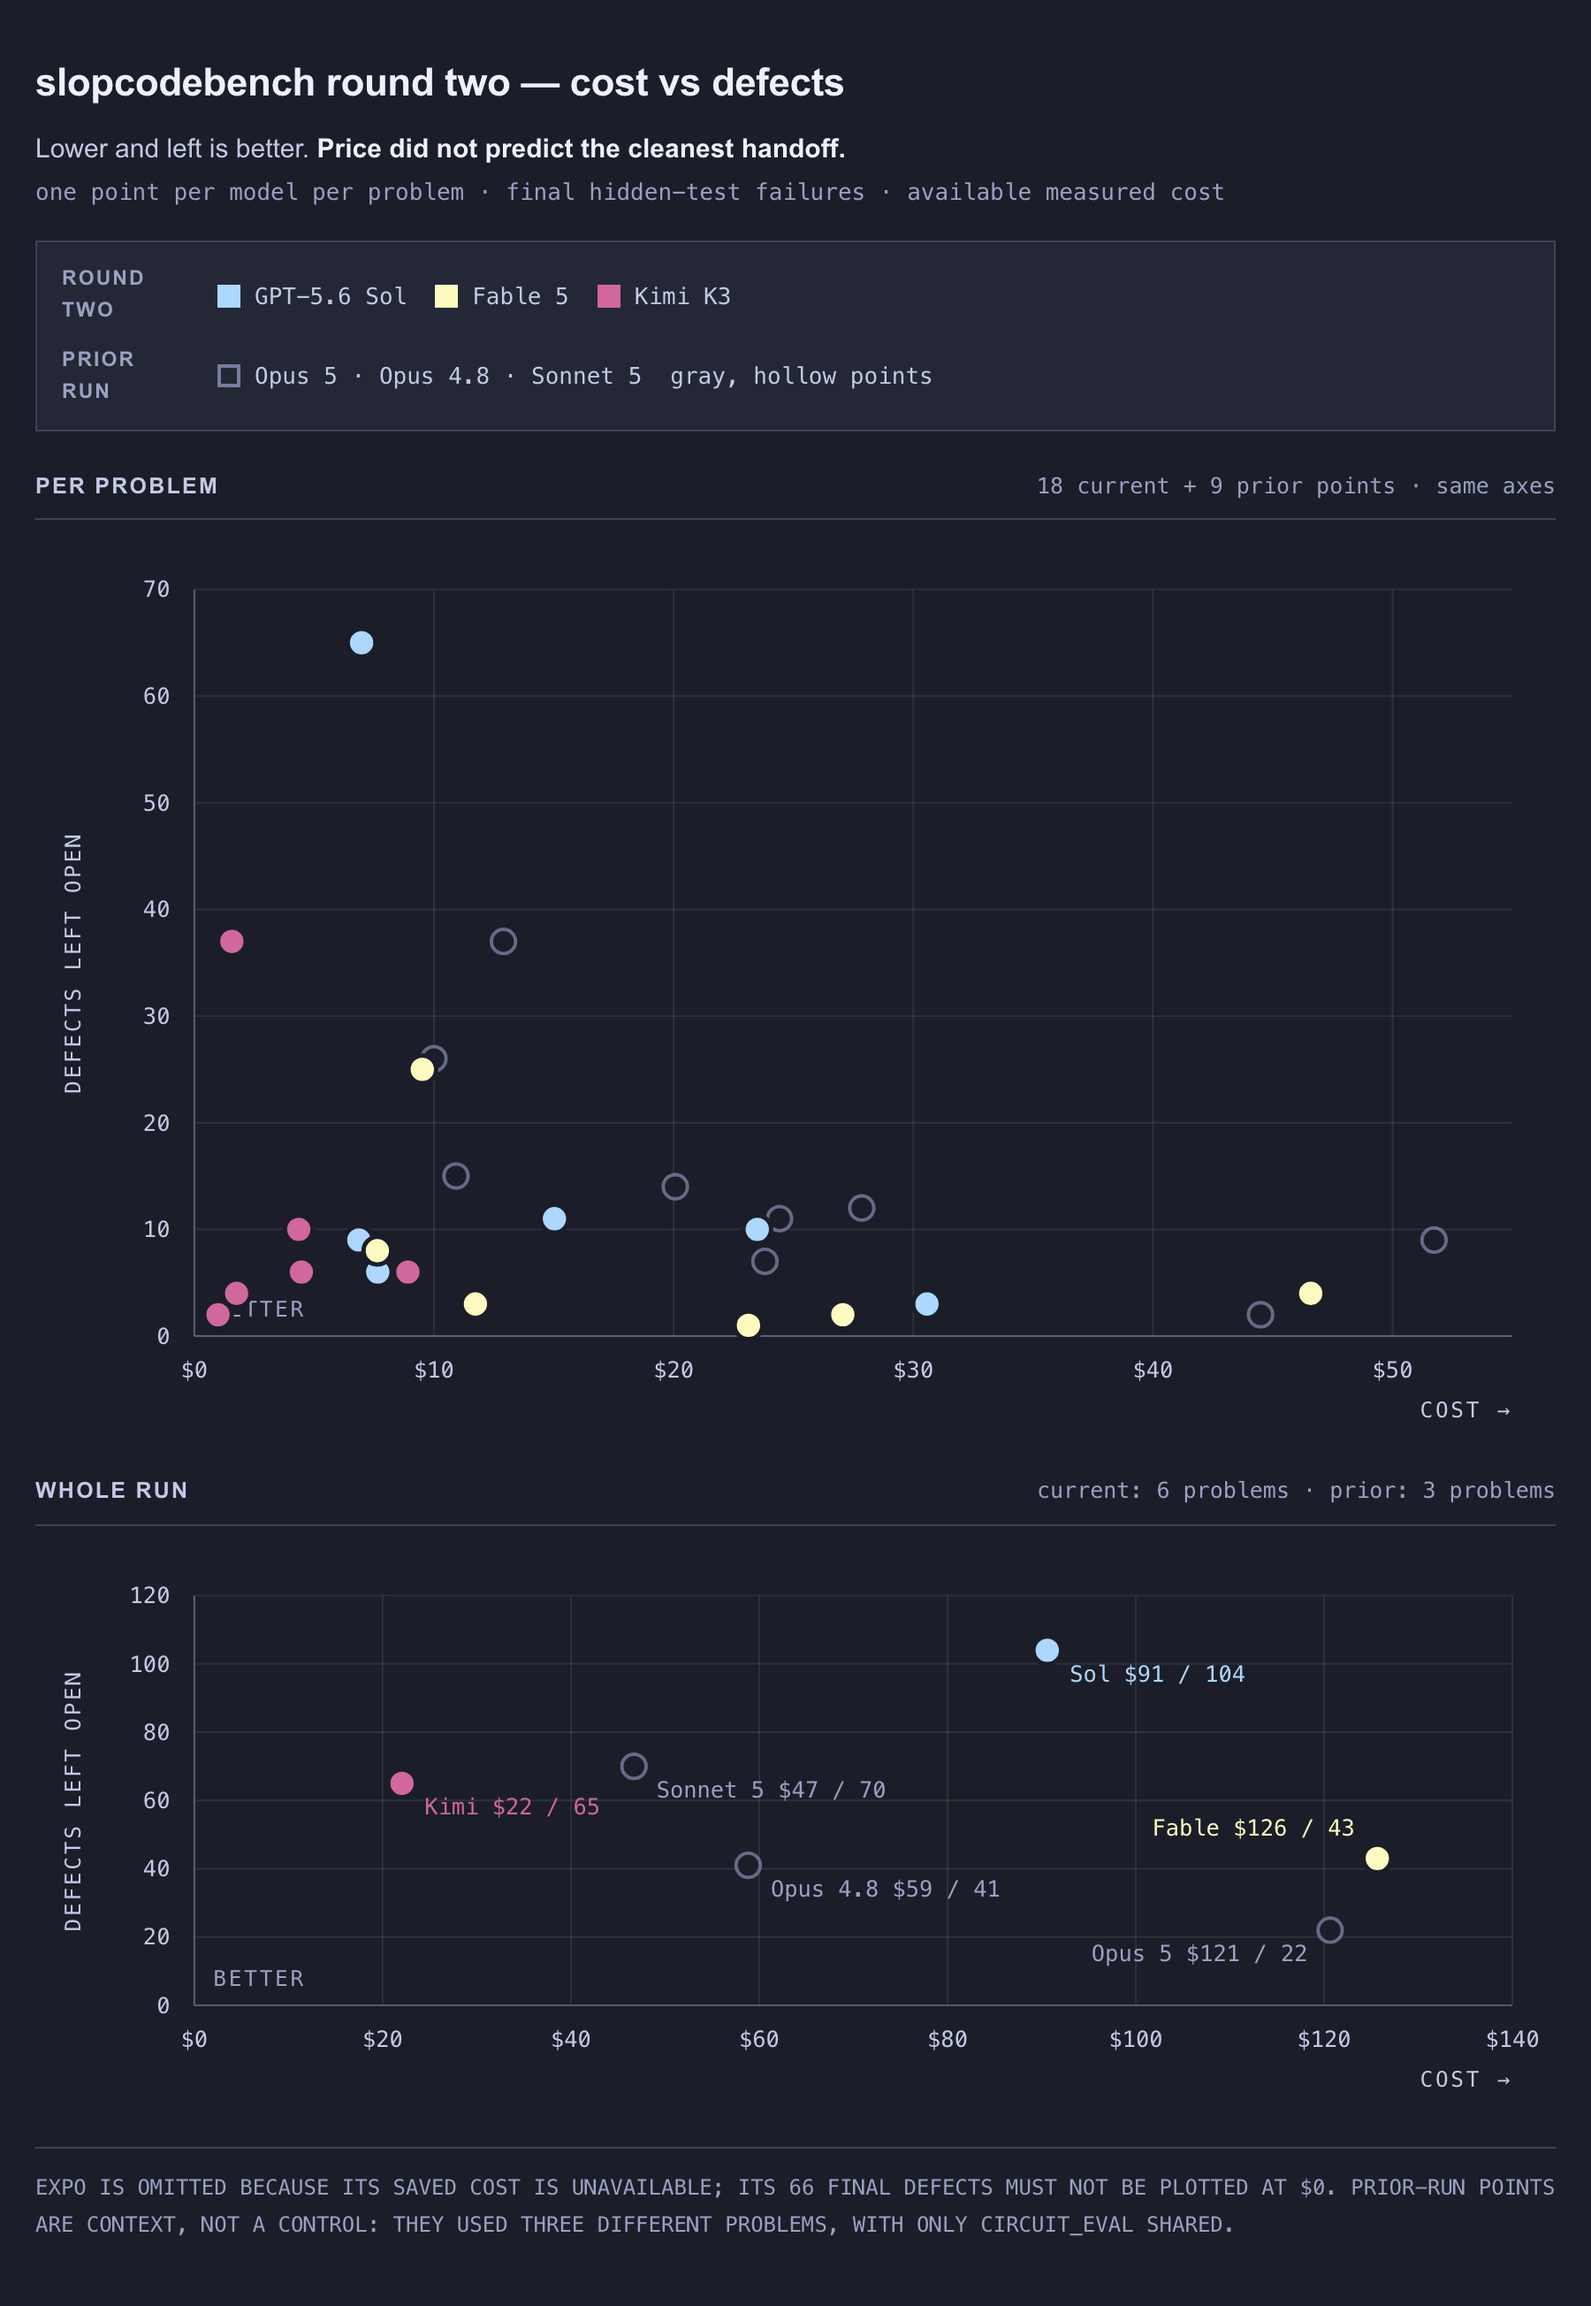
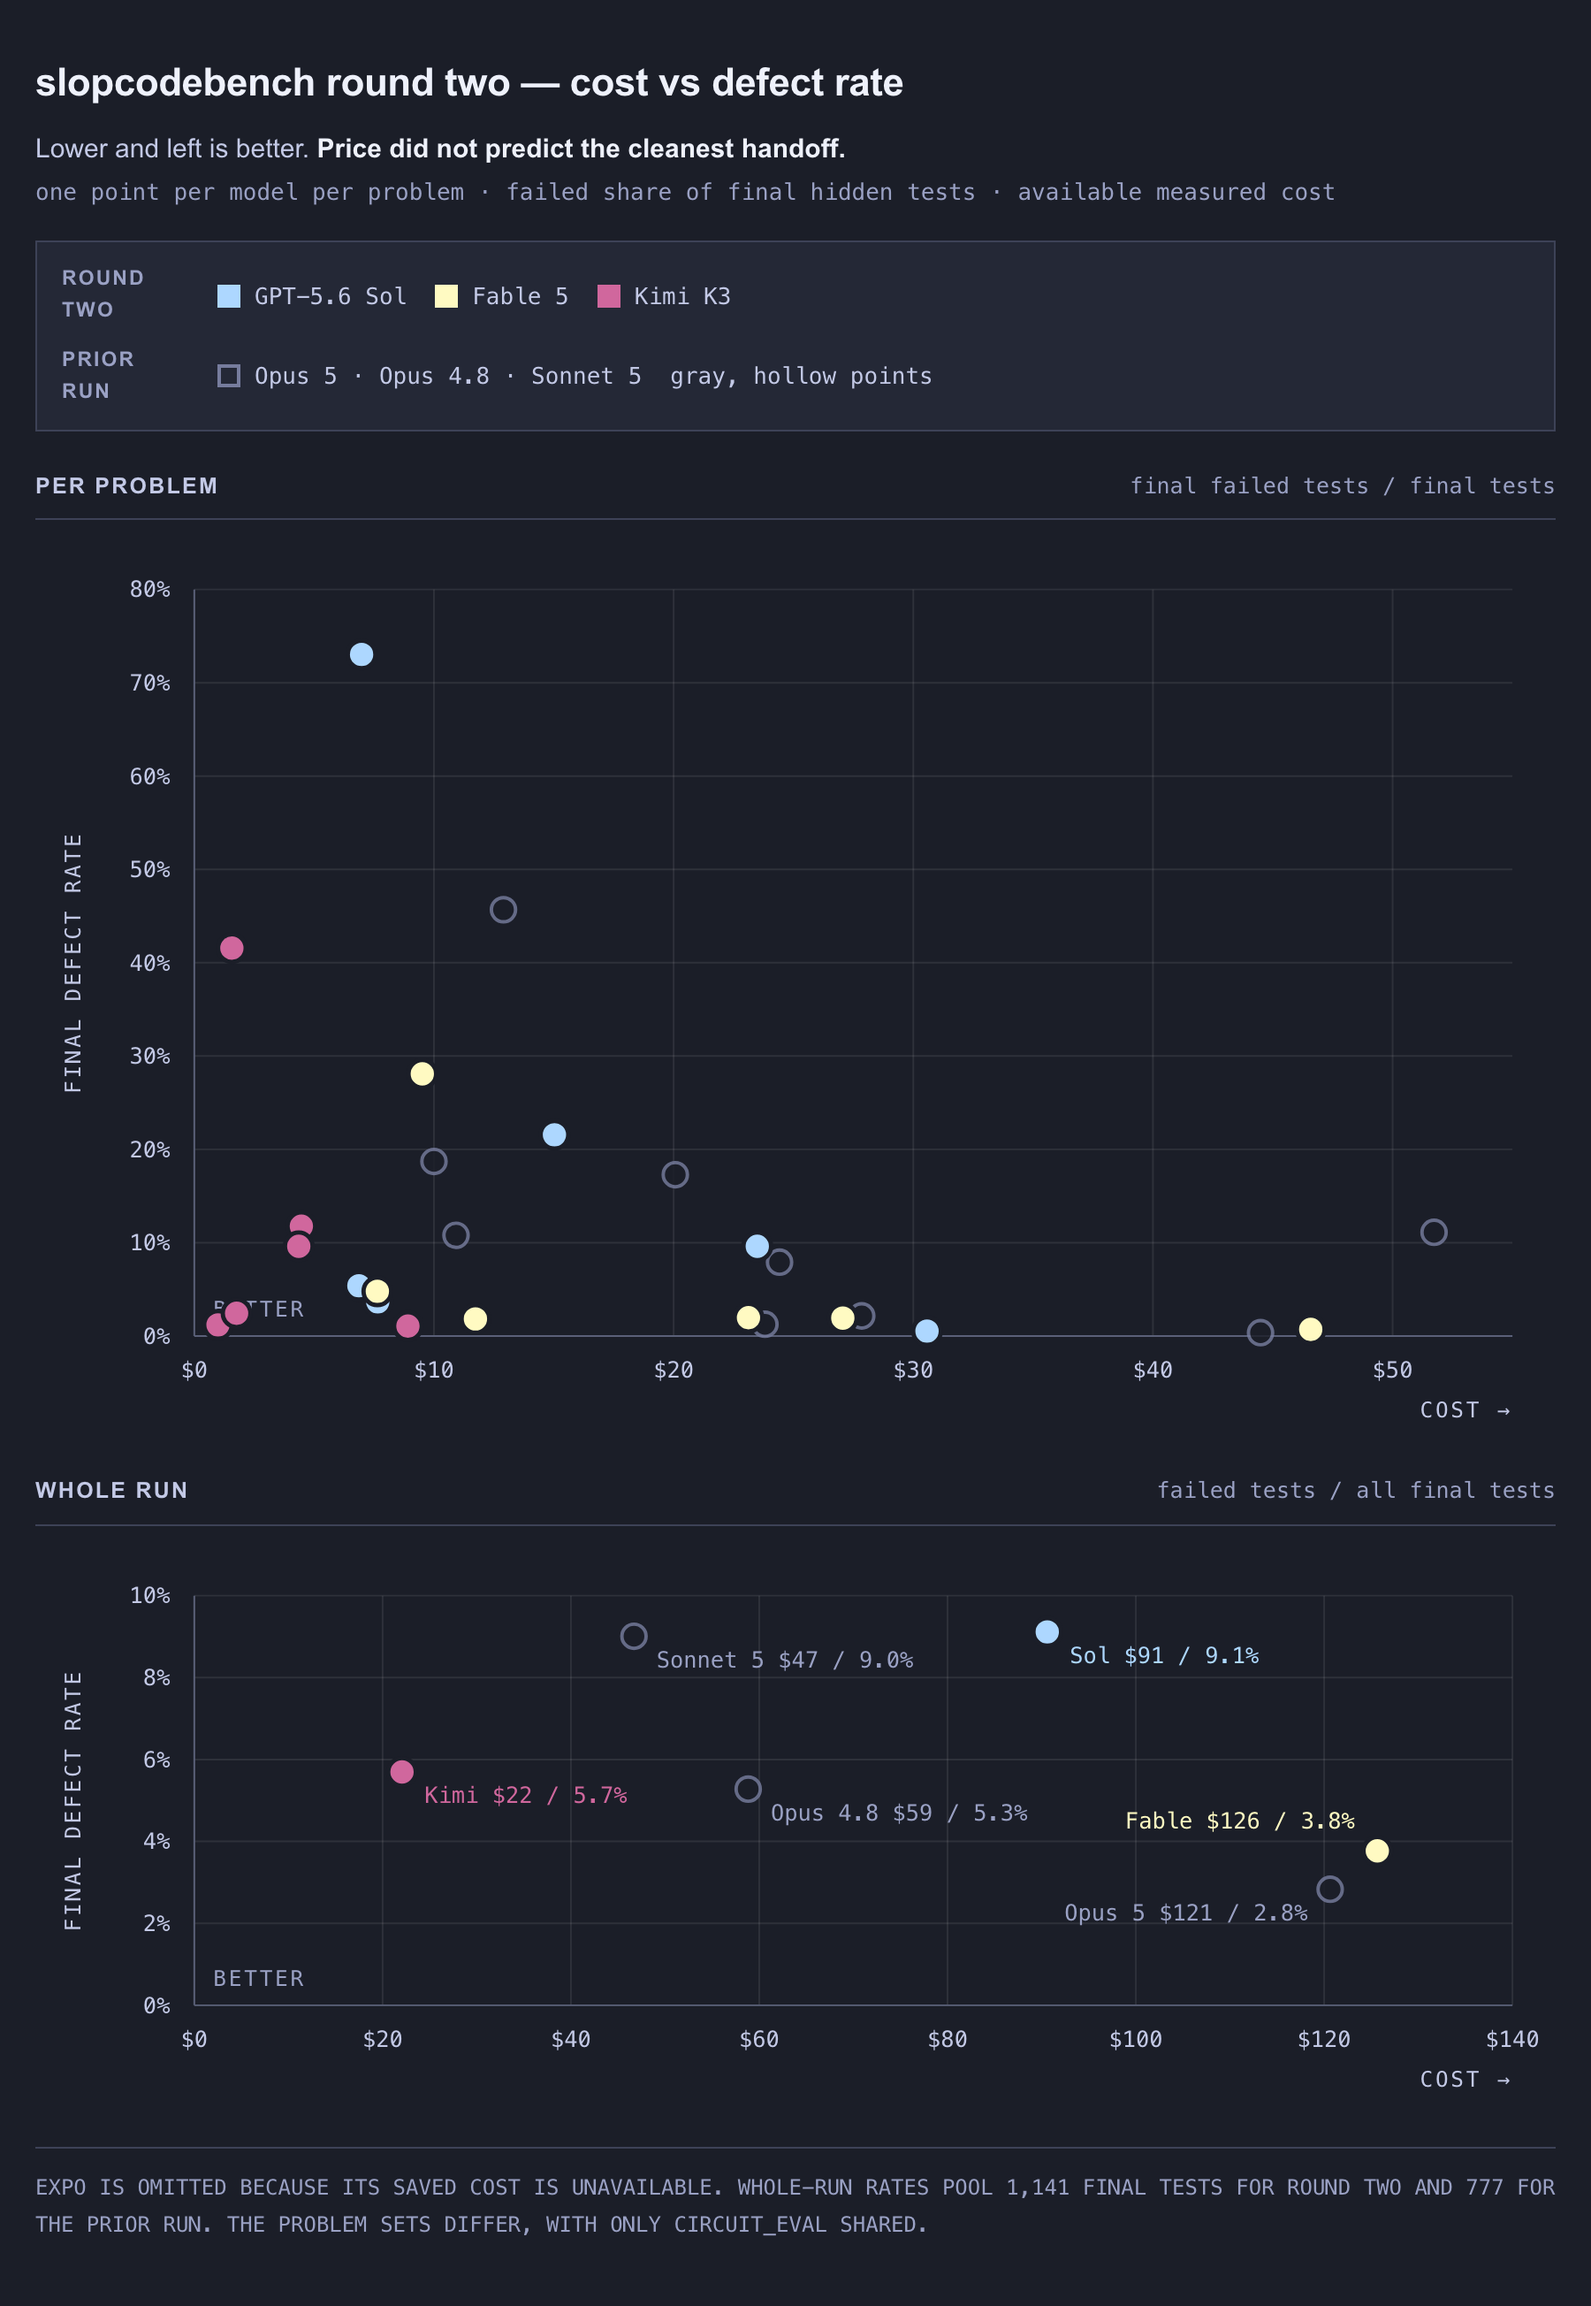
fix defect chart

diff --git a/benchmarking-sol-fable-kimi-on-slop-code-bench.md b/benchmarking-sol-fable-kimi-on-slop-code-bench.md
@@ -10,14 +10,14 @@ The number one ask people had: where do Fable, Sol, and Kimi K3 land?
 
 So on Thursday I ran it again, for
 
-1) Fable, Sol, Kimi K3, and a undisclosed model ("Expo")
-2) a larger subset of problems: [...fill in...]
+1) Fable, Sol, Kimi K3, and an undisclosed model ("Expo")
+2) a larger subset of problems: six challenges and 30 checkpoints per model
 
 ### The Results
 
-Fable and Sol Tied for this set at **33.3%** pass rate (10/30 strict checkpoint passes), with stealth model and Kimi K3 close behind at **26.7%** and **23.3%**, respectively.
+Fable and Sol tied on this set at **33.3%** (10/30 strict checkpoint passes), with Expo and Kimi K3 close behind at **26.7%** and **23.3%**, respectively.
 
-![...fill](./images/scb-2-pass-rates.png)
+![strict checkpoint pass rates for the two independent subset runs and the SlopCodeBench v2 paper](./images/scb-2-pass-rates.png)
 
 I'll refresh on how slop code bench works real quick, or you can jump to the detailed results.
 
@@ -39,11 +39,14 @@ The biggest takeaway from "the fact that SlopCodeBench is
 
 i pinged Gabe and asked him for a slightly broader subset of problems for this run - this one ran with 6 challenges, with circuit_eval being the overlap challenge. These are subsets, meant to be **directional**, not exhaustive.
 
-- ...fill in....
-- circuit_eval — **easy** (8 checkpoints)
-- ...fill in....
+- `xjq` — **easy** (5 checkpoints): an XML, HTML, and JSON query CLI that grows from XPath into CSS selectors and structured output
+- `file_backup` — **easy** (4 checkpoints): a scheduled backup tool that adds archive strategies, destinations, verification, and incremental state
+- `dag_execution` — **hard** (3 checkpoints): a task-pipeline DSL with execution, caching, and dynamic cache overrides
+- `circuit_eval` — **medium** (8 checkpoints): a circuit parser and evaluator that grows into vectors, three-valued logic, analysis, equivalence, and optimization
+- `code_search` — **easy** (5 checkpoints): a multi-language code-search and rewrite tool with regex, structural patterns, AST selectors, and fixes
+- `etl_pipeline` — **easy** (5 checkpoints): a JSON ETL pipeline that adds execution, branches, reusable definitions, and namespaced composition
 
-There's an appendix at the end with all ..fill in... checkpoints explained in detail but I won't put that all here.
+There's an appendix at the end with all 30 checkpoints explained in detail, but I won't put that all here.
 
 and then I ran them across all four models, in parallel, with a fresh context window per checkpoint. All models got the same prompts, and a mix of harnesses:
 
@@ -76,7 +79,7 @@ If our definition of success is "reached the final checkpoint with no defects" t
 
 ![defects left open at the end of each problem](images/scb-2-defects.png)
 
-As far as cost vs. defects go, we see a totally different curve from the opus 5 eval. Expo is not plotted because we wont publish $/mtok for that one.
+As far as cost vs. defects go, we see a totally different curve from the Opus 5 eval. The chart uses the share of final tests left failing so the three- and six-problem subsets can share one scale; Expo is not plotted because its saved cost is unavailable.
 
 ![cost vs defects, one point per model per problem](images/scb-2-cost-defects.png)
 
